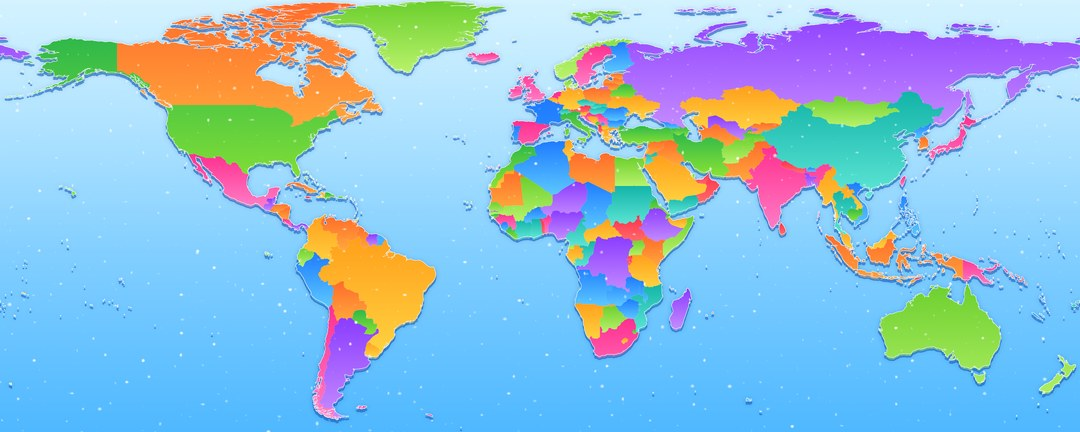
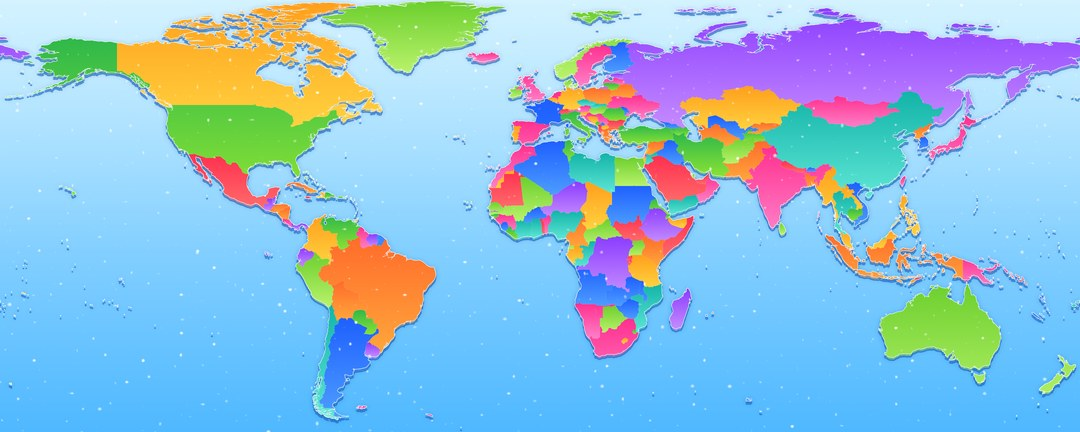
世界地図の色を 9色が まんべんなく出るように
Claude-Session: https://claude.ai/code/session_01B8fsoqhqCbqrUMki8gaNcU

diff --git a/tools/make_color_map.py b/tools/make_color_map.py
@@ -78,7 +78,7 @@ def star(cx, cy, r):
 
 
 # トップの絵(hero.webp)の 字と同じ あかるい キャンディ色(けいくん 2026-09-24「さわやかな青ベースで カラフルに」)。上→下で 少し こくなる
-TONES = [("#ff6b6b", "#ff2f4f"), ("#ffd23f", "#ff9f1c"), ("#8ae234", "#2fb84a"), ("#5cc8ff", "#1e7bff"), ("#c58bff", "#8a3cff"),
+TONES = [("#ff6b6b", "#ff2f4f"), ("#ffd23f", "#ff9f1c"), ("#8ae234", "#2fb84a"), ("#4d9dff", "#1e5fff"), ("#c58bff", "#8a3cff"),
          ("#ffa63b", "#ff6b2b"), ("#ff7fc8", "#ff2f8e"), ("#5ee6d6", "#12b3a8"), ("#b9f26b", "#6ccf2e")]
 SEA = ("#4fb8ff", "#c9efff")  # さわやかな 空色(下が こい・上が うすい)
 NEIGHBOR = ("#eaf6ff", "#cfe6ff")  # 日本の となりの国(色を付けない)
@@ -105,11 +105,14 @@ def wrap(paths, vb, W, H, extra=""):
 
 
 # 大きな国の色は 決めておく(けいくん 2026-09-24「右上に赤が多くて怖い → 北海道と同じ色(むらさき)に」)。番号は TONES の並び
-BIG = {"RUS": 4, "CHN": 7, "USA": 2, "CAN": 5, "BRA": 1, "AUS": 8, "IND": 6, "KAZ": 1, "MNG": 8, "GRL": 3, "ARG": 4, "DZA": 3,
-       "SAU": 1, "IRN": 2, "MEX": 6, "IDN": 5, "LBY": 5, "SDN": 7, "COD": 4, "ZAF": 6, "PER": 3, "COL": 1, "EGY": 8, "TUR": 2,
-       "UKR": 1, "FRA": 3, "ESP": 6, "DEU": 1, "SWE": 6, "NOR": 8, "FIN": 3, "POL": 5, "ITA": 2, "GBR": 6, "JPN": 6, "MDG": 4,
-       "TCD": 3, "NER": 4, "MLI": 8, "MRT": 5, "AGO": 3, "NAM": 1, "BWA": 8, "ETH": 4, "TZA": 1, "KEN": 5, "MOZ": 7, "ZMB": 3,
-       "PAK": 5, "AFG": 8, "MMR": 1, "THA": 7, "VNM": 3, "MYS": 1, "PNG": 6, "NZL": 8, "CHL": 6, "BOL": 5, "VEN": 5, "ISL": 6}
+BIG = {"RUS": 4, "CHN": 7, "USA": 2, "CAN": 1, "BRA": 5, "AUS": 8, "IND": 6, "KAZ": 1, "MNG": 6, "GRL": 6, "ARG": 3, "DZA": 3,
+       "SAU": 0, "IRN": 2, "MEX": 0, "IDN": 5, "LBY": 7, "SDN": 3, "COD": 4, "ZAF": 6, "PER": 8, "COL": 1, "EGY": 8, "TUR": 2,
+       "UKR": 6, "FRA": 3, "ESP": 6, "DEU": 1, "SWE": 6, "NOR": 8, "FIN": 3, "POL": 5, "ITA": 2, "GBR": 6, "JPN": 6, "MDG": 4,
+       "TCD": 1, "NER": 4, "MLI": 8, "MRT": 0, "AGO": 3, "NAM": 6, "BWA": 8, "ETH": 4, "TZA": 1, "KEN": 5, "MOZ": 7, "ZMB": 3,
+       "PAK": 5, "AFG": 8, "MMR": 1, "THA": 7, "VNM": 3, "MYS": 1, "PNG": 6, "NZL": 8, "CHL": 7, "BOL": 5, "VEN": 2, "ISL": 6,
+       "NGA": 7, "ETH": 4, "SOM": 0, "CAF": 8, "CMR": 5, "GAB": 1, "MAR": 6, "TUN": 2, "IRQ": 3, "SYR": 5, "YEM": 7, "OMN": 6,
+       "UZB": 3, "TKM": 5, "PRY": 2, "URY": 4, "ECU": 4, "GUY": 6, "ROU": 2, "BGR": 0, "GRC": 5, "HUN": 8, "AUT": 6, "CHE": 0,
+       "PRT": 1, "IRL": 8, "BLR": 5, "LTU": 2, "LVA": 6, "EST": 4, "NPL": 0, "BGD": 5, "LKA": 8, "PHL": 1, "KOR": 3, "PRK": 5}
 
 
 def world(src, out):
